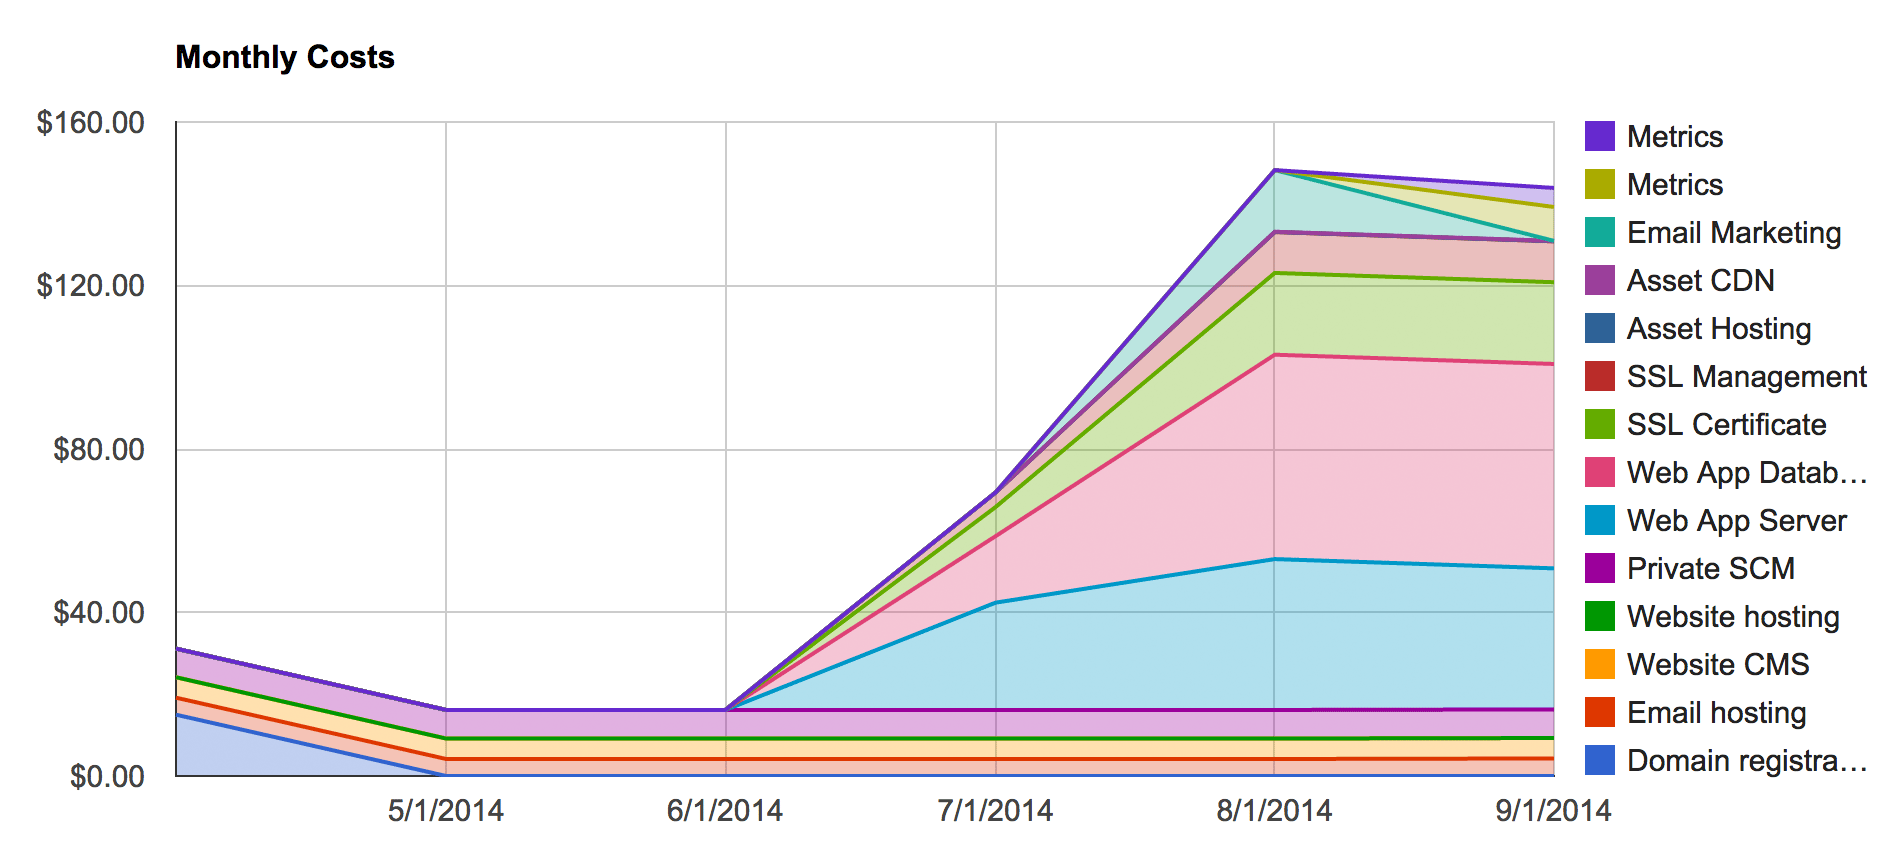
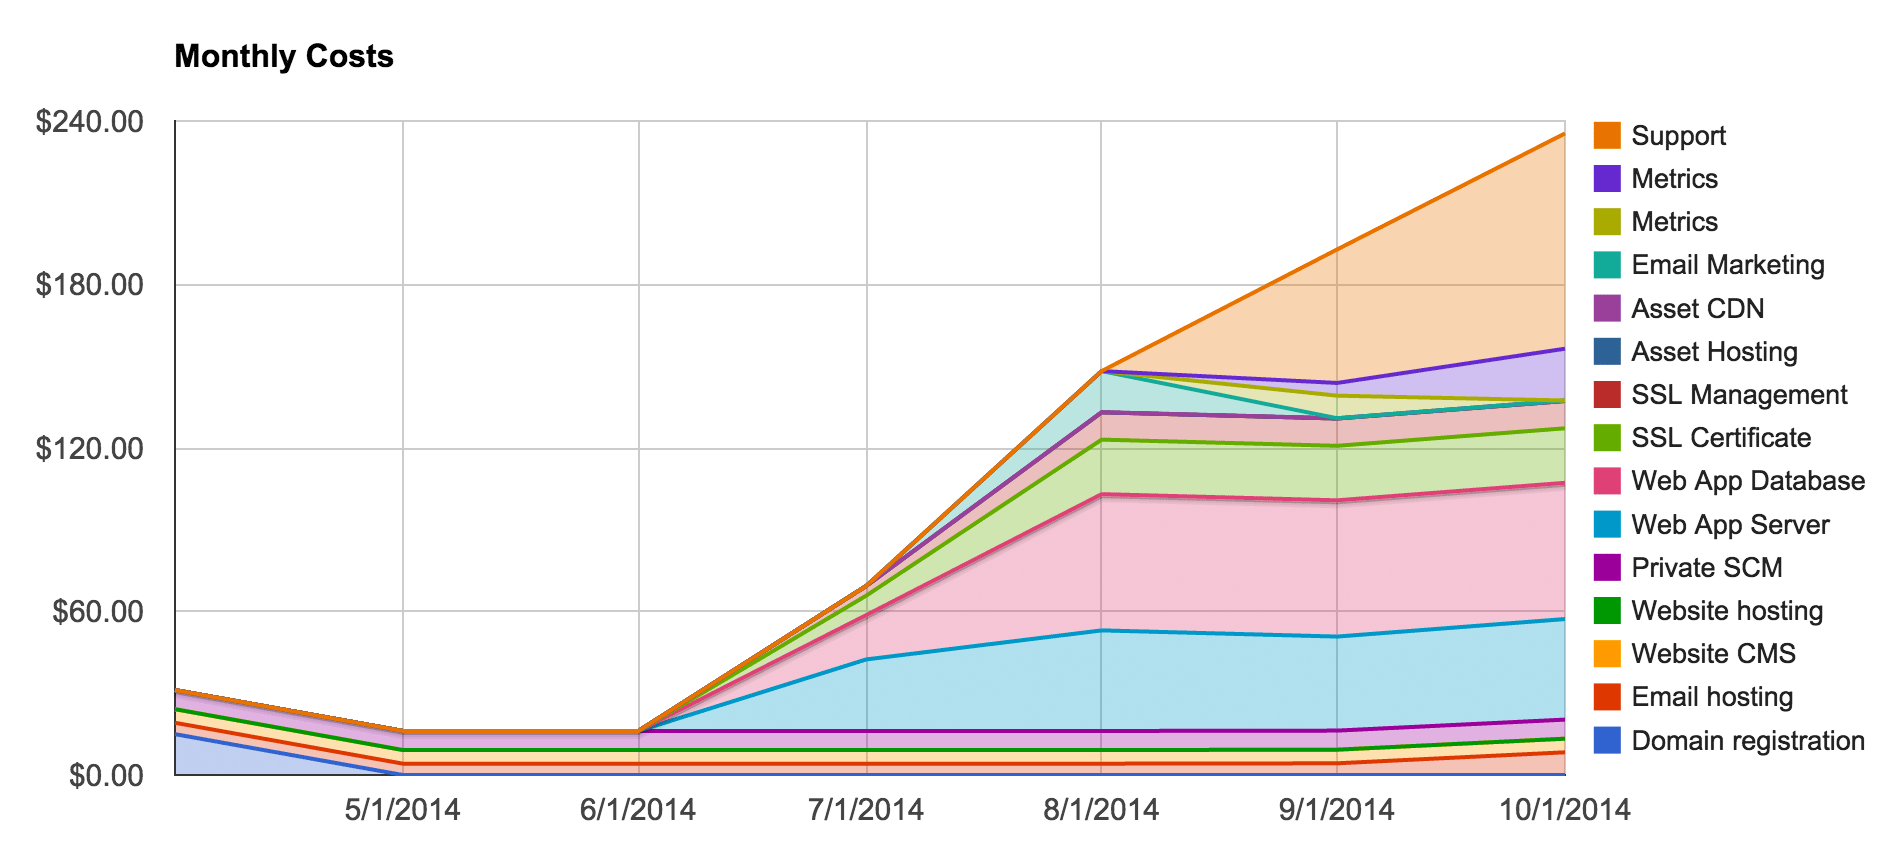
Siteleaf Publish

diff --git a/expenses/index.html b/expenses/index.html
@@ -92,7 +92,7 @@ window.analytics.page();
         
         
         
-        <td class='number-cell' colspan='3'>$1826.00/year</td>
+        <td class='number-cell' colspan='3'>$2774.00/year</td>
       </tr>
     </tfoot>
     <tbody>
@@ -185,6 +185,14 @@ window.analytics.page();
         <td class='number-cell'>$19/month</td>
       </tr>
       
+      <tr>
+        <td>Support</td>
+        <td class='service-cell'>
+          <a href='https://www.intercom.io'>Intercom</a>
+        </td>
+        <td class='number-cell'>$79/month</td>
+      </tr>
+      
     </tbody>
   </table>
 
@@ -193,7 +201,7 @@ window.analytics.page();
 
 <p><img src="/assets/cumulative-running-expenses.png" alt="cumulative-running-expenses"> </p>
 
-<p><img src="/assets/total-expenses.png" alt="total-expenses"> </p>
+<p><img src="/assets/total-expenses.png" alt="total-expenses"></p>
 
   </section>
 </main>

diff --git a/expenses/support/index.html b/expenses/support/index.html
@@ -1,0 +1,1 @@
+No template found for 'support'
